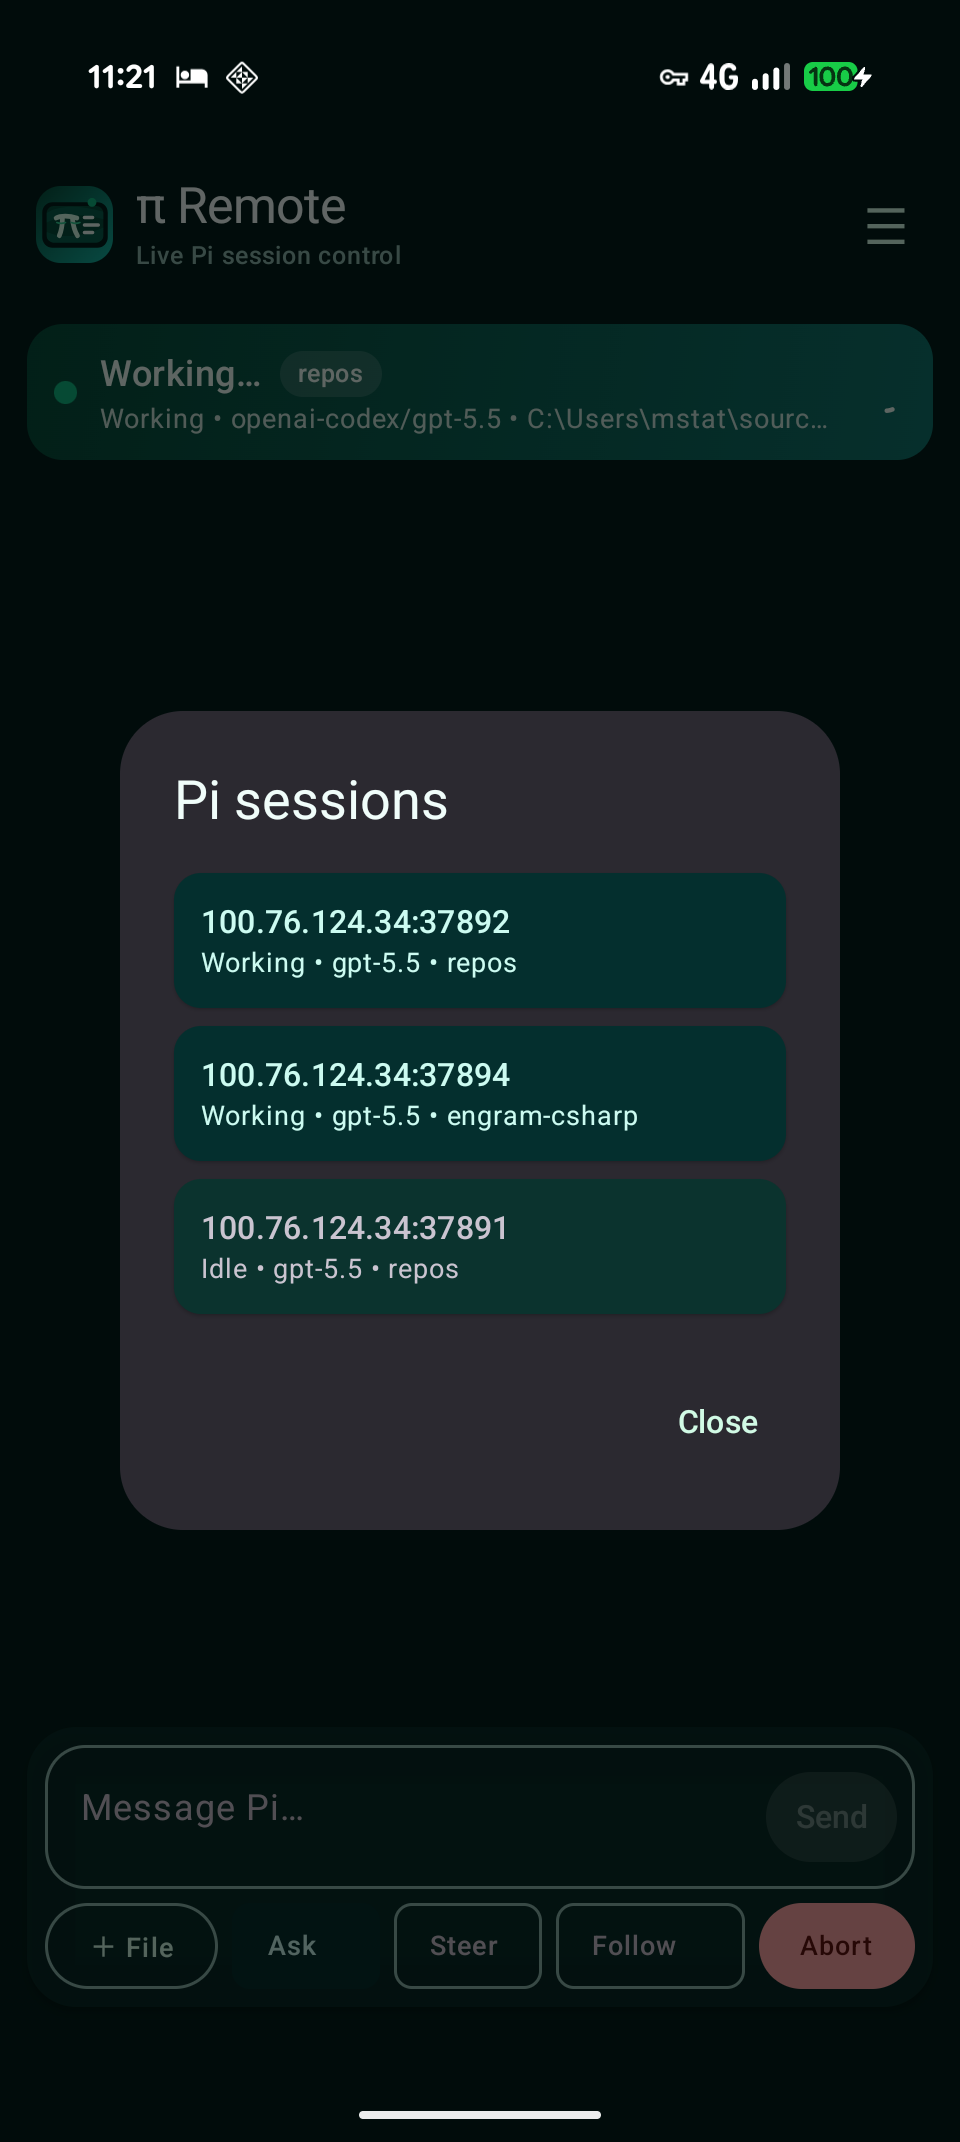
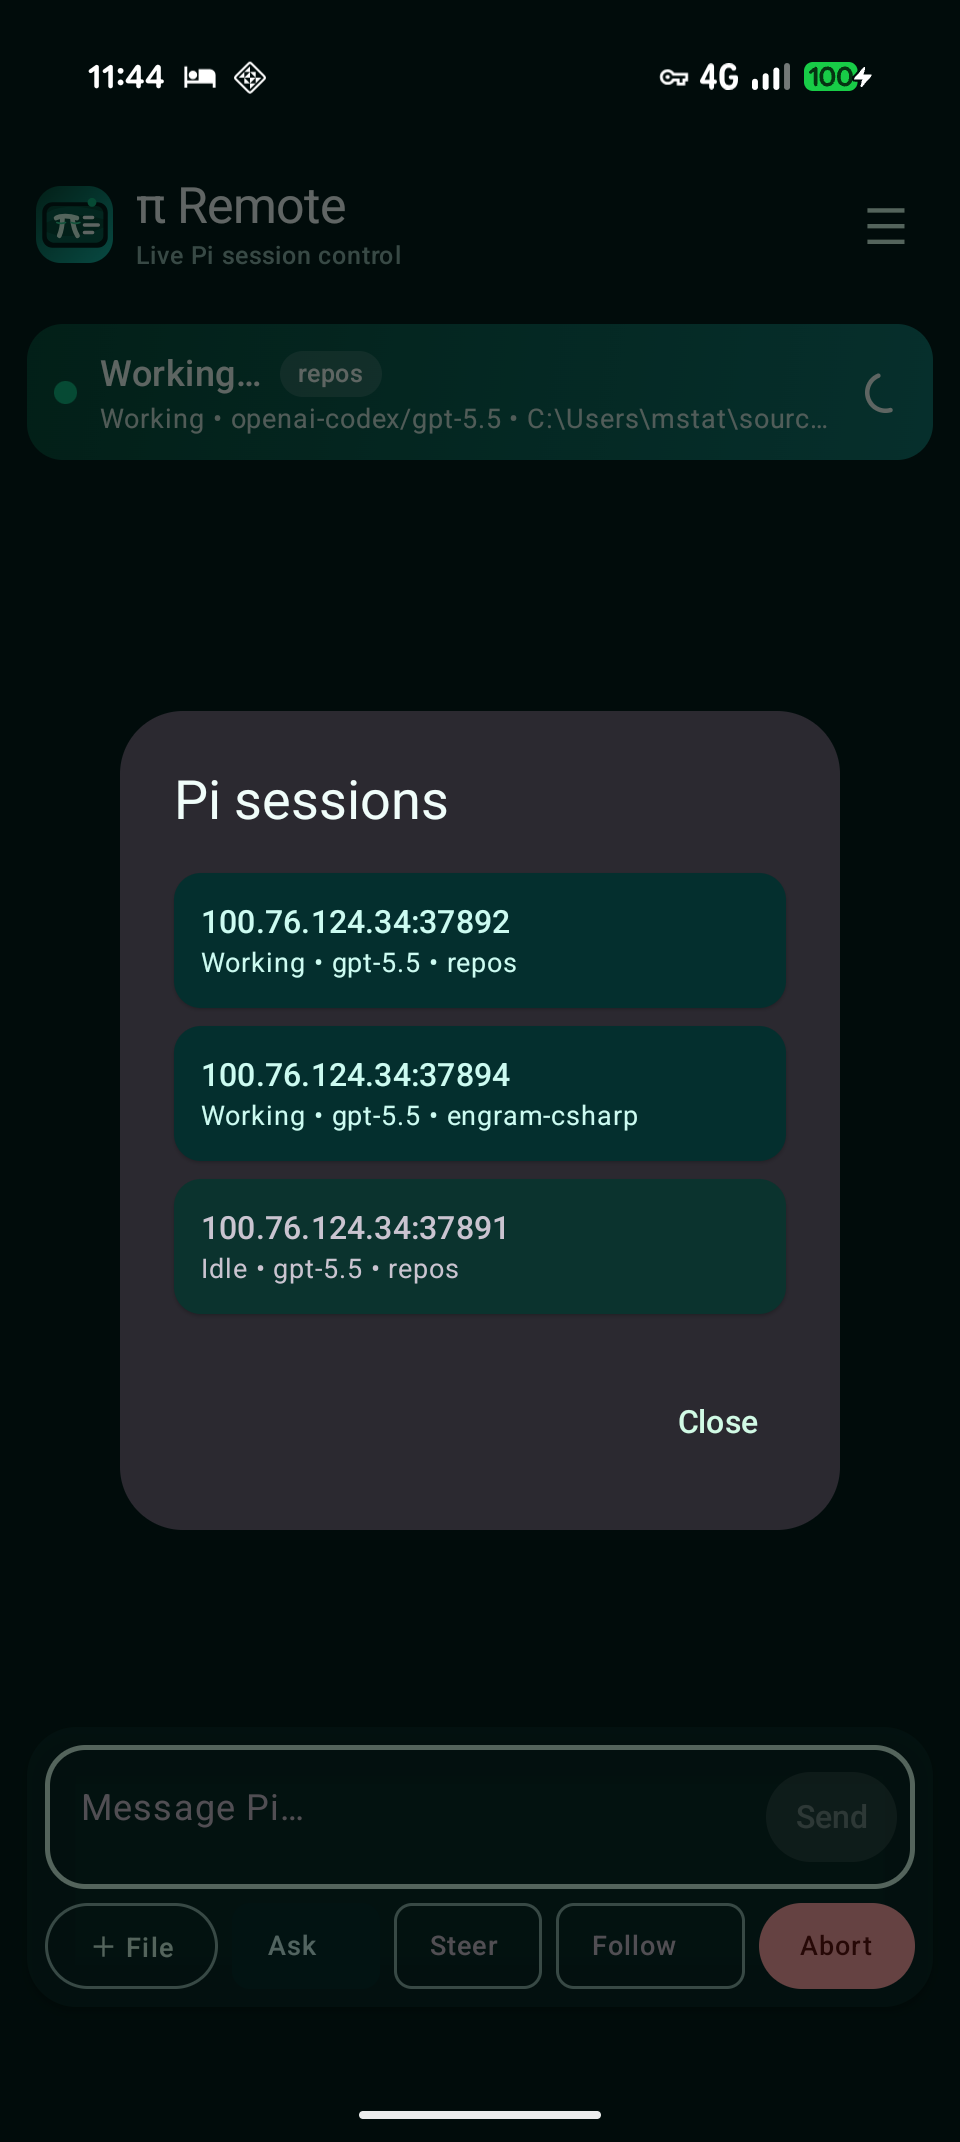
Keep actions accessible while typing and suppress local echo duplicates

Changed region(s): [[0.125, 0.0308, 0.2812, 0.0616], [0.9375, 0.8319, 0.9688, 0.8627], [0.0312, 0.8319, 0.0625, 0.8627]]

diff --git a/app/src/main/java/com/mstat/piremote/MainActivity.kt b/app/src/main/java/com/mstat/piremote/MainActivity.kt
@@ -202,6 +202,7 @@ fun PiRemoteApp(connectionUri: String? = null, sharedUris: List<String> = emptyL
     var autoConnectRequest by remember { mutableIntStateOf(0) }
     val messages = remember { mutableStateListOf<ChatItem>() }
     val activeToolMessages = remember { mutableStateMapOf<String, Long>() }
+    val pendingUserEchoes = remember { mutableStateListOf<String>() }
     val listState = rememberLazyListState()
     val mainHandler = remember { Handler(Looper.getMainLooper()) }
     val keyboardVisible = WindowInsets.ime.getBottom(density) > 0
@@ -397,14 +398,19 @@ fun PiRemoteApp(connectionUri: String? = null, sharedUris: List<String> = emptyL
         ws.send(json.toString())
 
         when (type) {
-            "prompt", "steer", "follow_up" -> addMessage(
-                ChatKind.User,
-                type.replace('_', ' ').replaceFirstChar { it.uppercase() },
-                listOfNotNull(
+            "prompt", "steer", "follow_up" -> {
+                val displayedText = listOfNotNull(
                     text.orEmpty().takeIf { it.isNotBlank() },
                     attachments.takeIf { it.isNotEmpty() }?.joinToString(prefix = "Attachments: ") { it.name },
                 ).joinToString("\n")
-            )
+                if (displayedText.isNotBlank()) pendingUserEchoes.add(displayedText)
+                if (pendingUserEchoes.size > 10) pendingUserEchoes.removeRange(0, pendingUserEchoes.size - 10)
+                addMessage(
+                ChatKind.User,
+                type.replace('_', ' ').replaceFirstChar { it.uppercase() },
+                displayedText
+                )
+            }
             "abort" -> addMessage(ChatKind.System, "Abort", "Abort requested")
             "get_state", "ping" -> addMessage(ChatKind.System, type, "Requested")
         }
@@ -465,6 +471,15 @@ fun PiRemoteApp(connectionUri: String? = null, sharedUris: List<String> = emptyL
                         setSessionInfo = { sessionInfo = it },
                         setWorking = { working = it },
                         clearActiveAssistant = { activeAssistantId = null },
+                        suppressUserEcho = { echoedText ->
+                            val index = pendingUserEchoes.indexOfFirst { it == echoedText }
+                            if (index >= 0) {
+                                pendingUserEchoes.removeAt(index)
+                                true
+                            } else {
+                                false
+                            }
+                        },
                     )
                 }
             }
@@ -606,7 +621,7 @@ fun PiRemoteApp(connectionUri: String? = null, sharedUris: List<String> = emptyL
     MaterialTheme(colorScheme = if (isSystemInDarkTheme()) PiDarkColors else PiLightColors) {
         Scaffold(
             topBar = {
-                if (!keyboardVisible) BrandedTopBar(
+                BrandedTopBar(
                     connected = connected,
                     connecting = connecting,
                     showSettings = showSettings,
@@ -1063,8 +1078,7 @@ private fun ComposerPanel(
                 keyboardActions = KeyboardActions(onSend = { if (sendEnabled) sendWithPulse() }),
             )
 
-            if (!keyboardVisible) {
-                Row(horizontalArrangement = Arrangement.spacedBy(6.dp), modifier = Modifier.fillMaxWidth()) {
+            Row(horizontalArrangement = Arrangement.spacedBy(6.dp), modifier = Modifier.fillMaxWidth()) {
                     OutlinedButton(
                         onClick = { haptics.performHapticFeedback(HapticFeedbackType.TextHandleMove); onAttach() },
                         enabled = attachments.size < 4,
@@ -1090,7 +1104,6 @@ private fun ComposerPanel(
                         ),
                     ) { Text("Abort", maxLines = 1, style = MaterialTheme.typography.labelMedium) }
                 }
-            }
         }
     }
     if (confirmAbort) {
@@ -1283,6 +1296,7 @@ private fun handleIncoming(
     setSessionInfo: (String) -> Unit,
     setWorking: (Boolean) -> Unit,
     clearActiveAssistant: () -> Unit,
+    suppressUserEcho: (String) -> Boolean,
 ) {
     try {
         val obj = JSONObject(text)
@@ -1295,7 +1309,7 @@ private fun handleIncoming(
             "user_message" -> {
                 val message = obj.optJSONObject("message")
                 val textContent = extractMessageText(message)
-                if (textContent.isNotBlank()) addMessage(ChatKind.User, "User", textContent)
+                if (textContent.isNotBlank() && !suppressUserEcho(textContent)) addMessage(ChatKind.User, "User", textContent)
             }
             "history" -> {
                 val history = obj.optJSONArray("messages")
@@ -1362,7 +1376,7 @@ private fun handleIncoming(
                 if (eventType == "user_message") {
                     val message = obj.optJSONObject("message")
                     val textContent = extractMessageText(message)
-                    if (textContent.isNotBlank()) addMessage(ChatKind.User, "User", textContent)
+                    if (textContent.isNotBlank() && !suppressUserEcho(textContent)) addMessage(ChatKind.User, "User", textContent)
                 } else if (eventType != "session_shutdown") {
                     addMessage(ChatKind.System, eventType, summarizeRawEvent(obj))
                 }